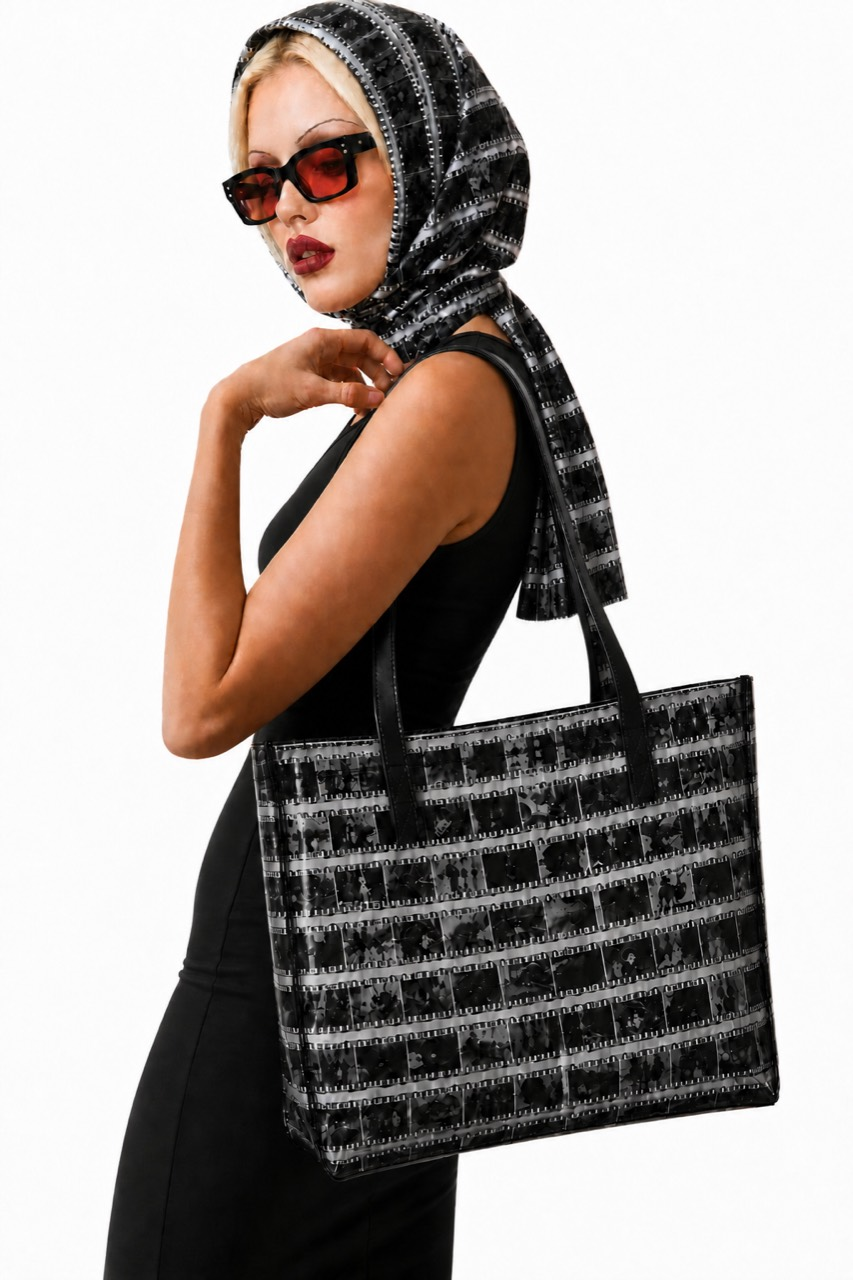
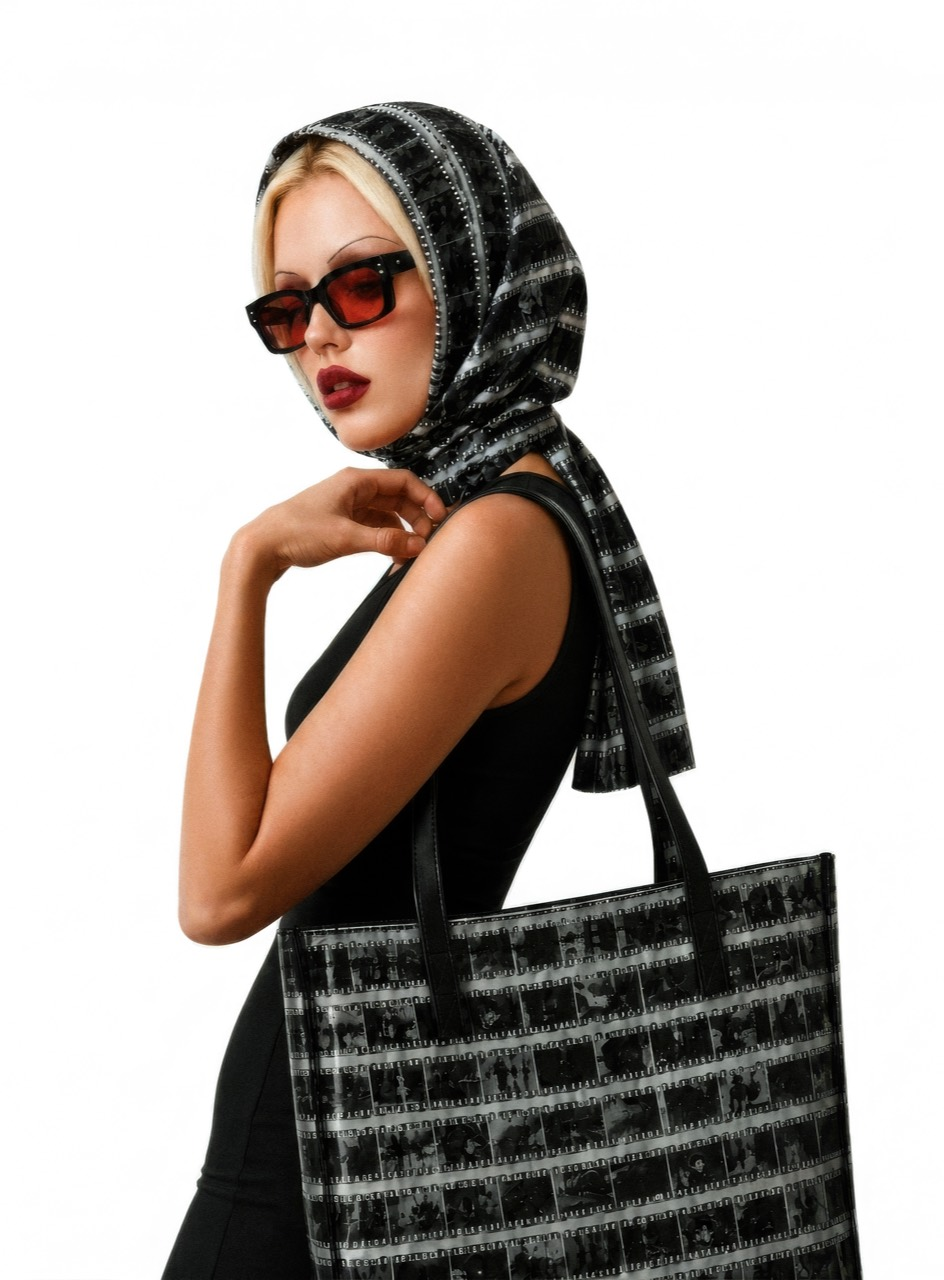
Upgrade shared Tote Bag and Scarf campaign image

diff --git a/src/routes/projects.no-comply.media.tsx b/src/routes/projects.no-comply.media.tsx
@@ -21,13 +21,13 @@ import portfolioVideo from "../assets/no-comply/media/no-comply-portfolio.mp4.as
 import cof01 from "../assets/no-comply/caught-on-film/cof-01-trim.png.asset.json";
 import cof02 from "../assets/no-comply/caught-on-film/cof-02.png.asset.json";
 import cof03 from "../assets/no-comply/caught-on-film/cof-03.png.asset.json";
-import cof04 from "../assets/no-comply/caught-on-film/cof-04.png.asset.json";
 import cof06 from "../assets/no-comply/caught-on-film/cof-06.png.asset.json";
 import cof07 from "../assets/no-comply/caught-on-film/cof-07.png.asset.json";
 import cof08 from "../assets/no-comply/caught-on-film/cof-08.png.asset.json";
 import cof09 from "../assets/no-comply/caught-on-film/cof-09.png.asset.json";
 import cof10 from "../assets/no-comply/caught-on-film/cof-10.png.asset.json";
 import cof11 from "../assets/no-comply/caught-on-film/cof-11.png.asset.json";
+import onFilmScarfModel2 from "../assets/products/caught-on-film/on-film-scarf/black-white/model-2.jpg";
 import onFilmSkullCapModel1 from "../assets/products/caught-on-film/on-film-skull-cap/black-white/model-1.jpg";
 import { EditorialPageShell } from "@/components/no-comply/editorial-page-shell";
 
@@ -90,7 +90,7 @@ const media: {
     collection: "caught-on-film",
   },
   {
-    src: cof04.url,
+    src: onFilmScarfModel2,
     alt: "Model with film-strip headscarf carrying the film-strip tote bag",
     collection: "caught-on-film",
   },
